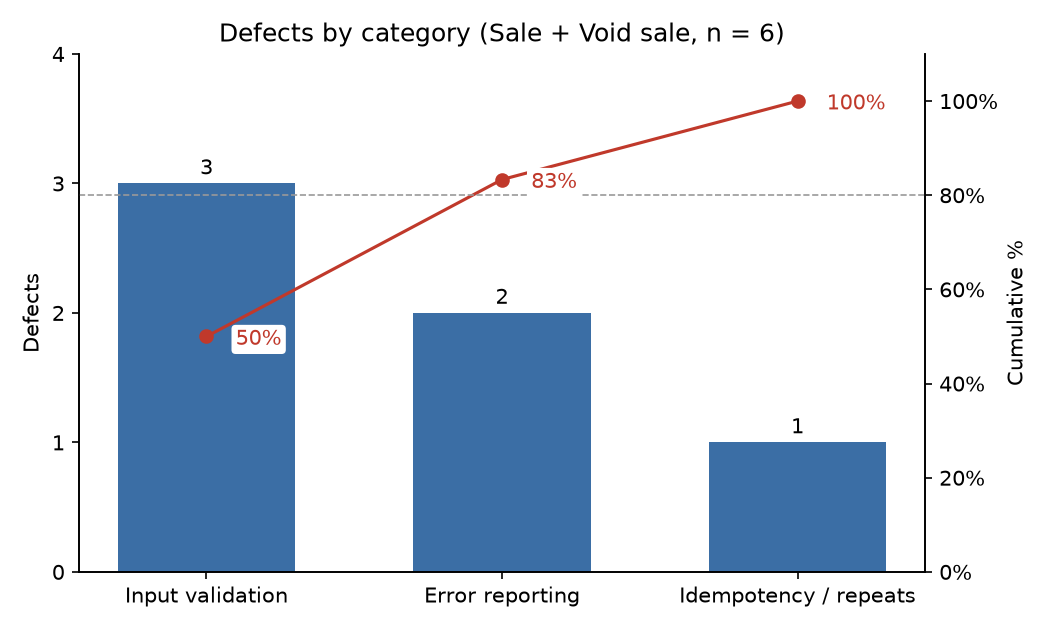
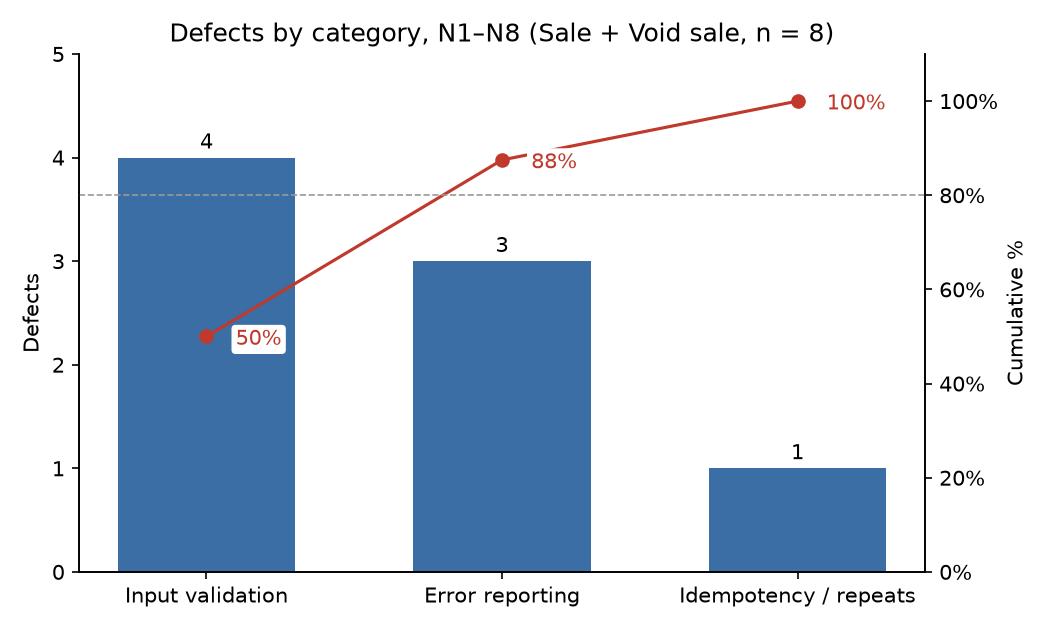
Update Pareto analysis and chart with N1–N8

diff --git a/reports/api/make_pareto.py b/reports/api/make_pareto.py
@@ -20,6 +20,8 @@ DEFECTS = {
     'N4': 'Idempotency / repeats',
     'N5': 'Input validation',
     'N6': 'Input validation',
+    'N7': 'Input validation',
+    'N8': 'Error reporting',
 }
 
 
@@ -42,7 +44,7 @@ def main():
     ax.set_ylabel('Defects')
     ax.set_ylim(0, max(values) + 1)
     ax.yaxis.set_major_locator(MaxNLocator(integer=True))
-    ax.set_title(f'Defects by category (Sale + Void sale, n = {total})')
+    ax.set_title(f'Defects by category, N1–N8 (Sale + Void sale, n = {total})')
     ax.spines[['top']].set_visible(False)
 
     ax2 = ax.twinx()

diff --git a/docs/defects/pareto.md b/docs/defects/pareto.md
@@ -1,32 +1,46 @@
 # Pareto analysis — defects by category
 
-The chart covers the six defects confirmed by the API tests for Sale and Void sale (N1–N6, 28 Nov 2026). The chart is [`reports/api/pareto.png`](../../reports/api/pareto.png). To regenerate it, run `python reports/api/make_pareto.py`; it needs matplotlib, which is installed in `.venv` (3.11.2).
+The chart covers the eight defects confirmed for Sale and Void sale on 28 Nov 2026:
+
+- N1–N6 were found by the API tests.
+- N7 and N8 were found by the Playwright E2E tests.
+
+The chart is [`reports/api/pareto.png`](../../reports/api/pareto.png). To regenerate it, run `python reports/api/make_pareto.py`; it needs matplotlib 3.11.2 (`tools/generator/requirements.txt`).
 
 ![Pareto chart of defects by category](../../reports/api/pareto.png)
 
 ## Categories
 
-| Defect | Category | Severity | Why this category |
+| Defect | Category | Severity / priority | Why this category |
 | --- | --- | --- | --- |
-| N2 | Input validation | Major | No upper bound on purchase quantity |
-| N5 | Input validation | Minor | `false` accepted as 0 (wrong type not rejected) |
-| N6 | Input validation | Minor | No upper bound on item ids, leading to a 500 |
-| N1 | Error reporting | Minor | Correct rejection, wrong message |
-| N3 | Error reporting | Minor | Correct rejection, but 200 instead of 4xx |
-| N4 | Idempotency / repeats | Major | Repeated request creates a second sale |
+| N2 | Input validation | Major / P2 | No upper bound on purchase quantity |
+| N7 | Input validation | Major / P2 | Out-of-range tax silently clamped by the till instead of rejected |
+| N5 | Input validation | Minor / P3 | `false` accepted as 0 (wrong type not rejected) |
+| N6 | Input validation | Minor / P3 | No upper bound on item ids, leading to a 500 |
+| N1 | Error reporting | Minor / P3 | Correct rejection, wrong message |
+| N3 | Error reporting | Minor / P3 | Correct rejection, but 200 instead of 4xx |
+| N8 | Error reporting | Minor / P3 | Ended session shown as "Unexpected server response." |
+| N4 | Idempotency / repeats | Major / P1 (P2 proposed) | Repeated request creates a second sale |
 
 ## Counts, sorted
 
 | Category | Defects | % | Cumulative % |
 | --- | --- | --- | --- |
-| Input validation | 3 | 50.0 | 50.0 |
-| Error reporting | 2 | 33.3 | 83.3 |
-| Idempotency / repeats | 1 | 16.7 | 100.0 |
-| **Total** | **6** | **100** | |
+| Input validation | 4 | 50.0 | 50.0 |
+| Error reporting | 3 | 37.5 | 87.5 |
+| Idempotency / repeats | 1 | 12.5 | 100.0 |
+| **Total** | **8** | **100** | |
 
 ## Reading
 
-- **Input validation** and **error reporting** together hold 83% of the defects. That passes the 80% line, so these two categories are the "vital few" to fix first.
-- **Input validation** is where most defects are found. The improvement with the biggest effect is one shared rule that every numeric input has a type check, a minimum and a maximum. That rule covers N2, N5 and N6, and is preventive action 1 in [rca-N2.md](rca-N2.md).
-- **Idempotency** has only one defect, but it is the highest-priority one (P1: double charge, stock wrong). Count alone does not set the fix order: N4 is fixed first, then the input validation rule.
-- **Not counted:** W1 (void never returns 4xx) is an accepted endpoint weakness, not a defect. Member 1's failing unit test is a test problem, not an app defect.
+- **Input validation and error reporting** together hold 87.5% of the defects. That passes the 80% line, so these two categories are the "vital few".
+- **Input validation** is still the largest category, and it now includes a defect in the browser (N7) as well as on the server (N2, N5, N6).
+  - The shared rule, "every numeric input has a type check, a minimum and a maximum", must apply on both sides.
+  - The client must show an error for an invalid value, not change it silently.
+  - This is preventive action 1 in [rca-N2.md](rca-N2.md), widened to the UI.
+- **Error reporting** defects do not corrupt data. Each one gives the user the wrong message or status (N1, N3, N8), so one review of error paths and messages would fix all three.
+- **Fix order** is set by priority, not by count:
+  1. N4 (double charge, stock wrong).
+  2. The input validation rule (N2 and N7 are Major).
+  3. The error-reporting review.
+- **Not counted:** W1 (void never returns 4xx) is an accepted endpoint weakness. Defects in other members' areas, such as the dashboard accessibility defects, are tracked by their owners.
